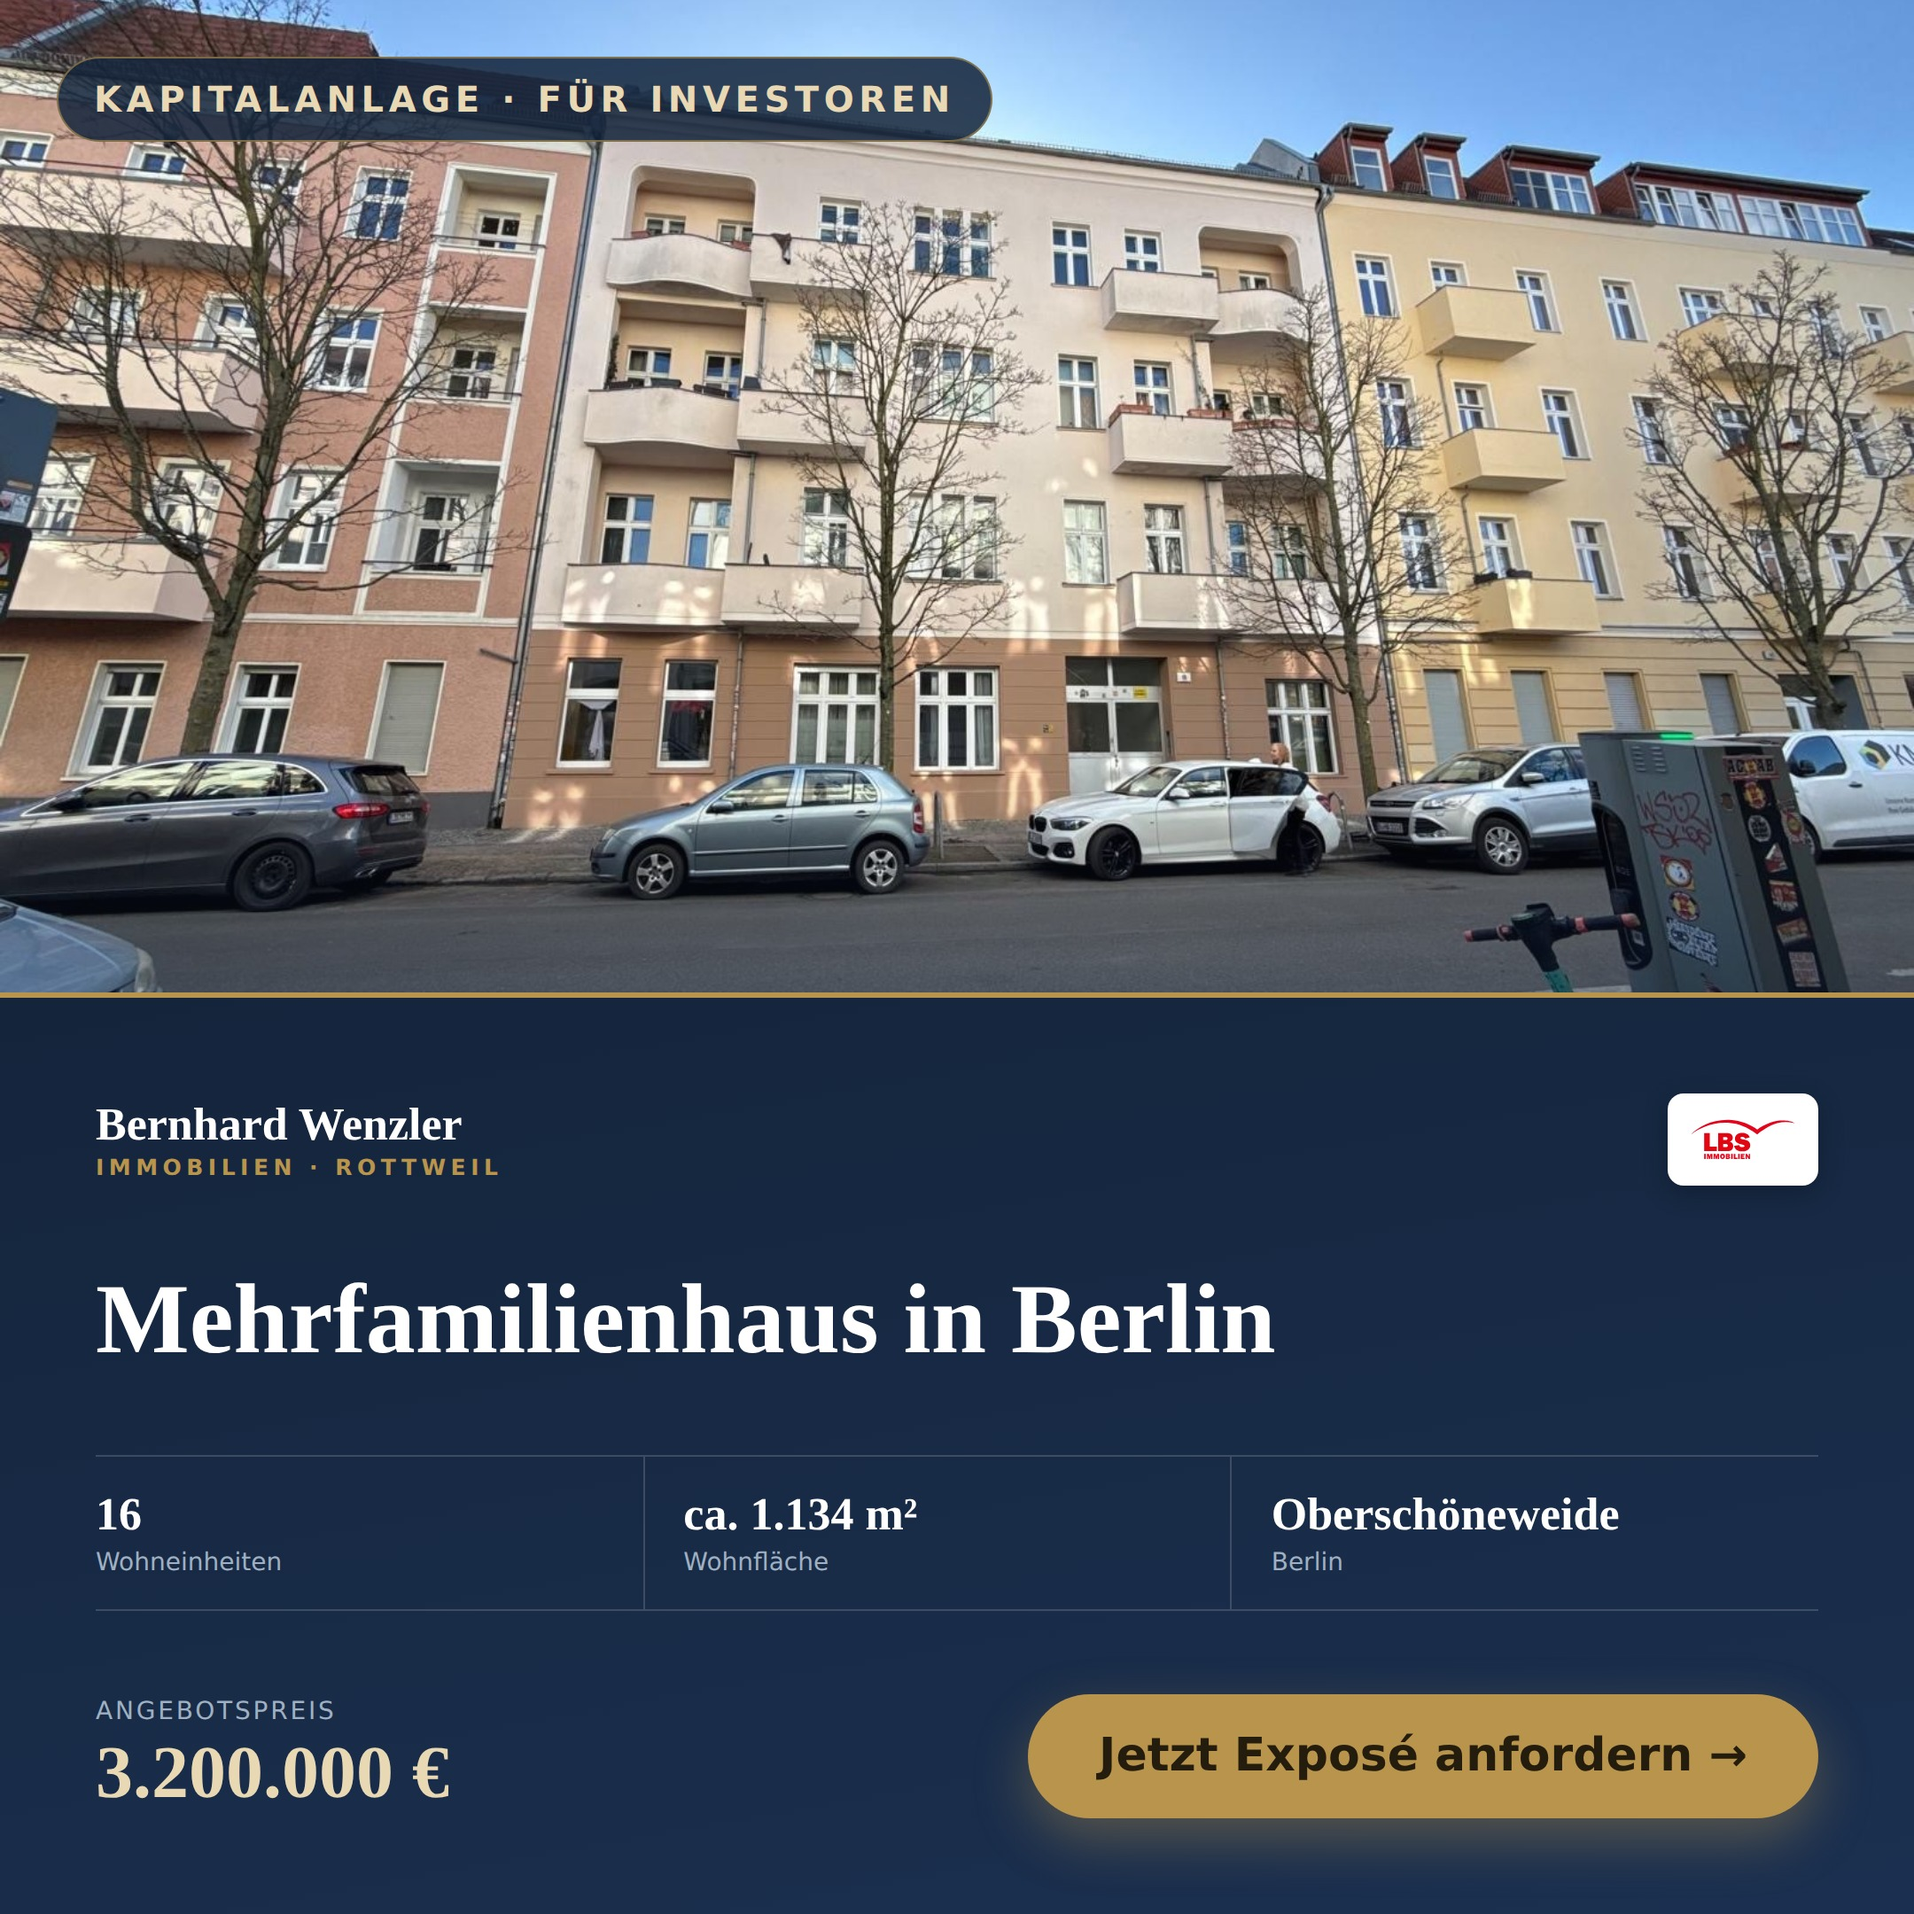
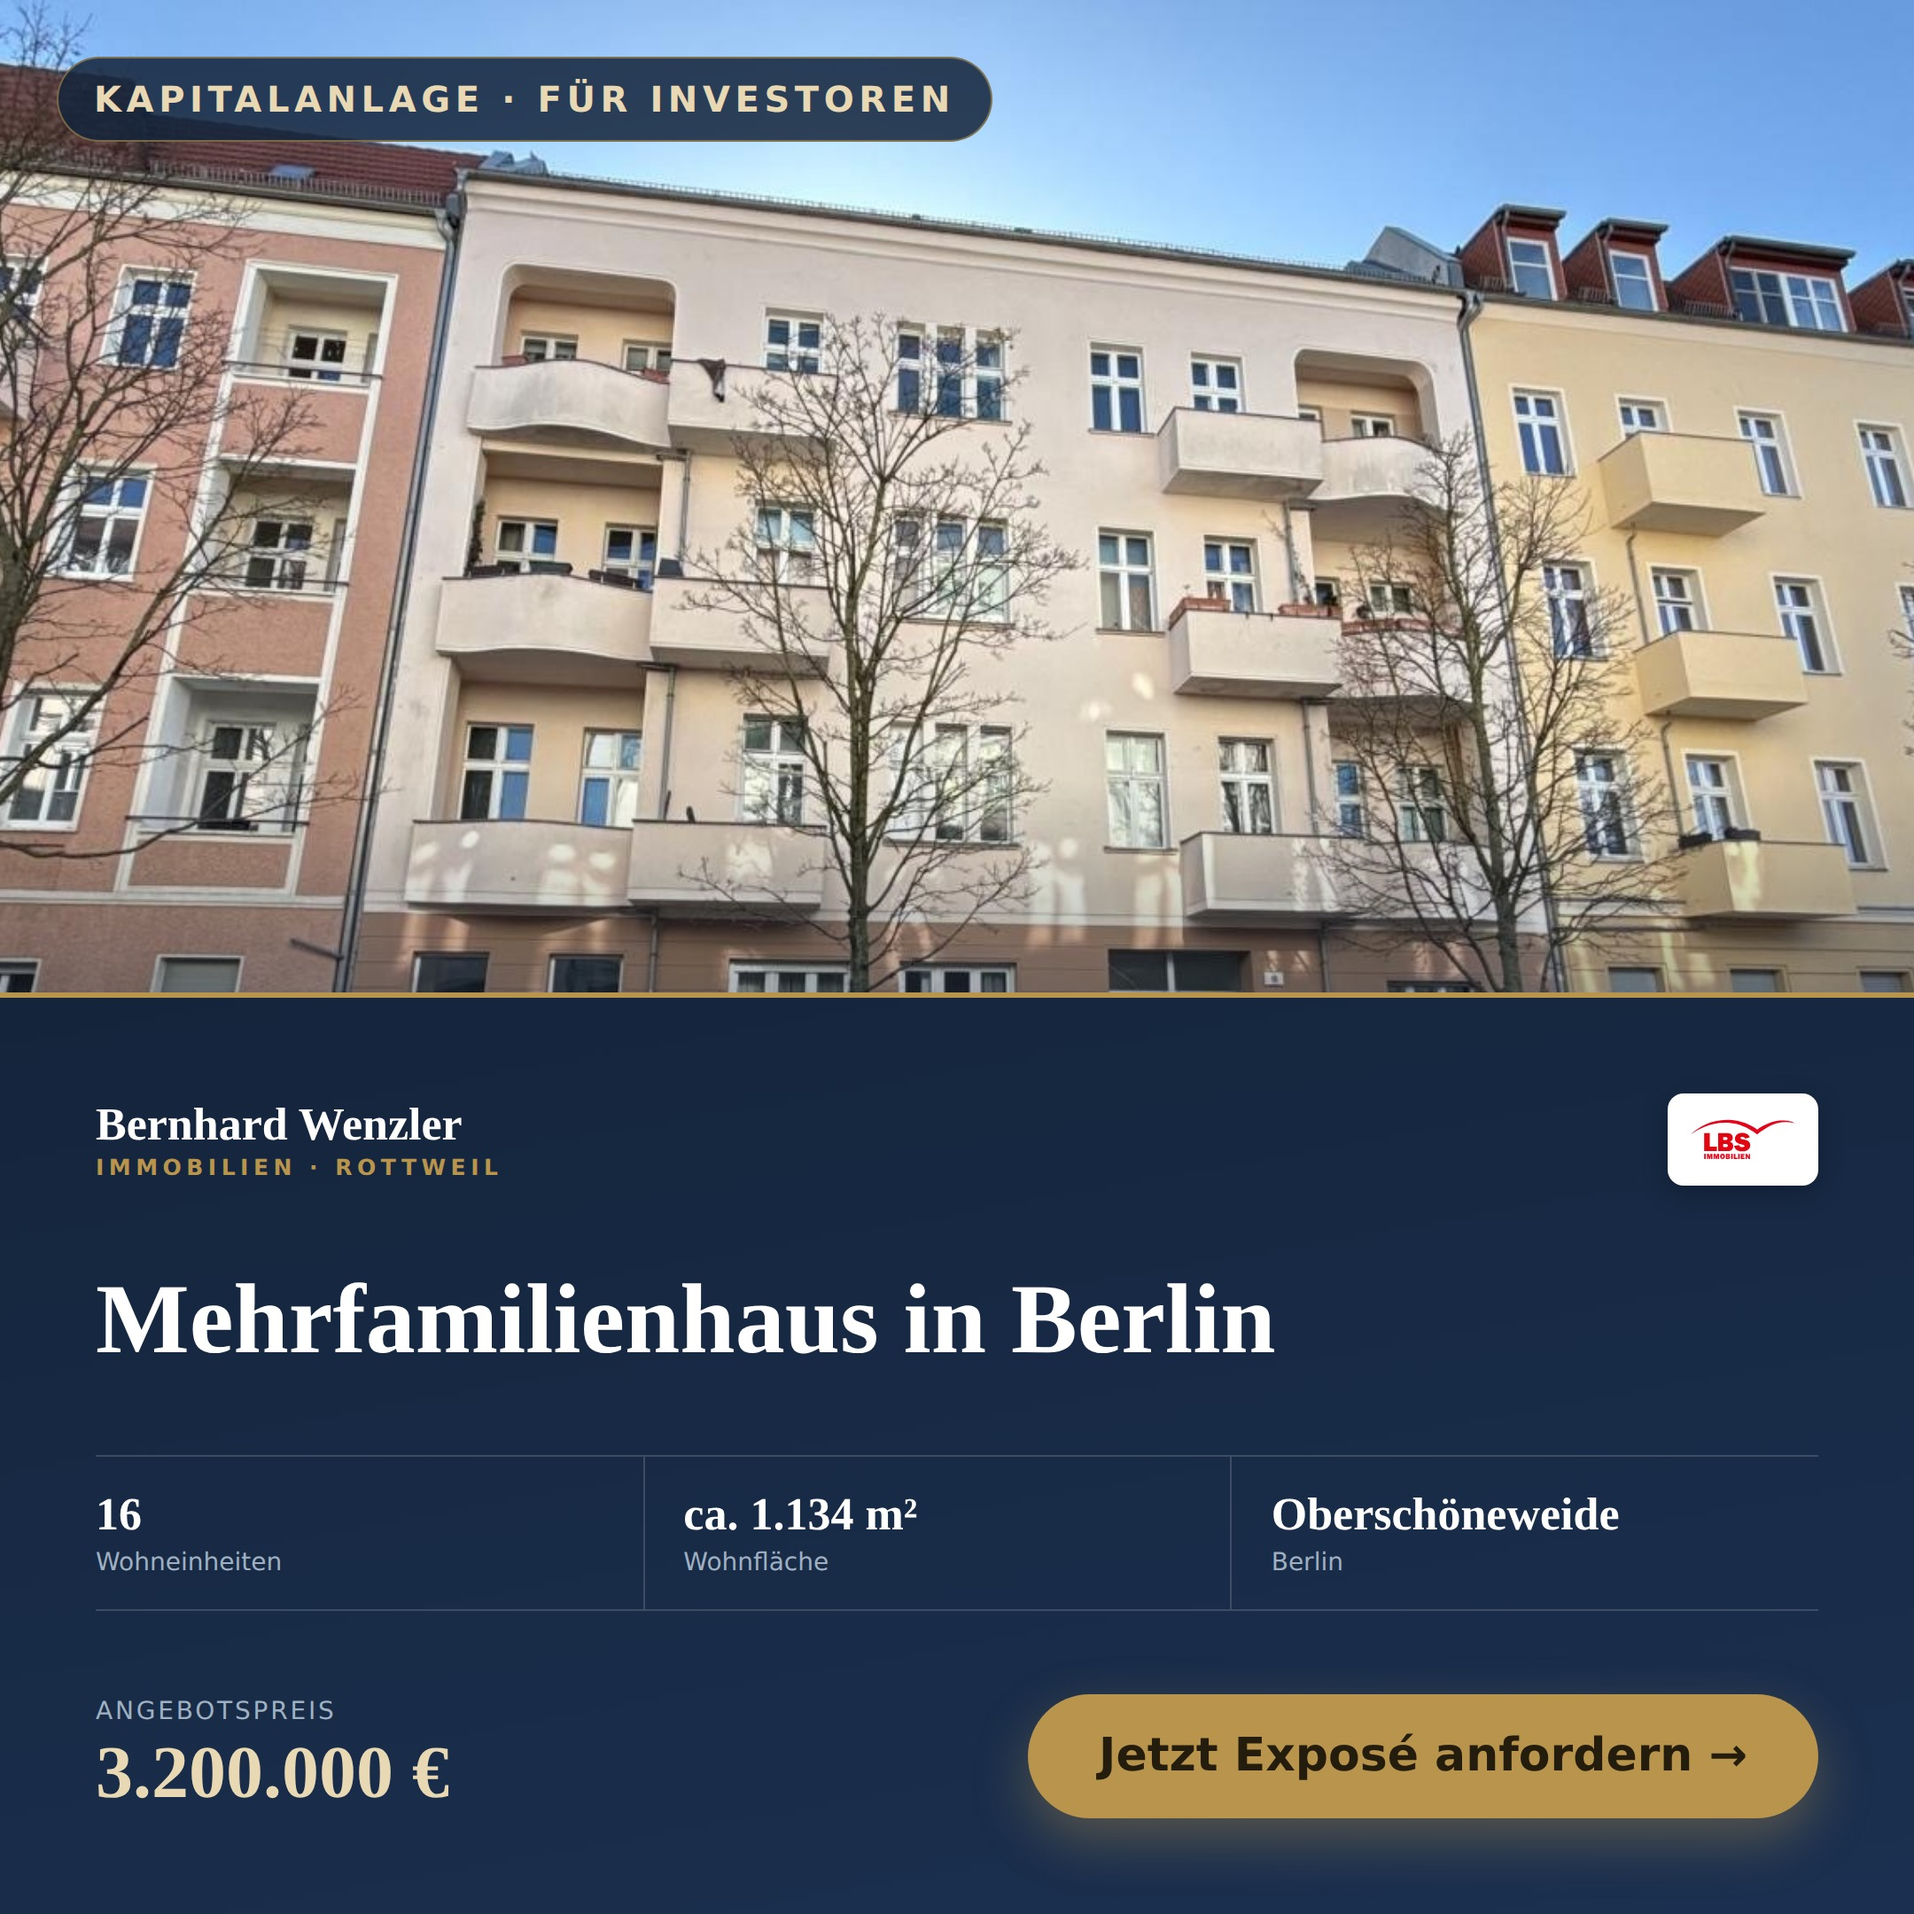
Offene Autotür entfernen: Fassaden-Foto sauber zugeschnitten
- Neuer Bildausschnitt assets/8-fassade.jpg (nur Fassade + Himmel,
  ohne Straßenzeile/Fahrzeuge)
- In allen Fassaden-Creatives (1:1, 4:5, Story, Link) eingesetzt
- Auch im Landingpage-Hero, in der Galerie und als og:/twitter:image

Claude-Session: https://claude.ai/code/session_01PbEVJQx6nGFjYtWW8cb22h

diff --git a/index.html b/index.html
@@ -14,16 +14,16 @@
   <meta property="og:title" content="Kapitalanlage Berlin – Mehrfamilienhaus für Investoren" />
   <meta property="og:description" content="Vermietetes Mehrfamilienhaus in Berlin-Oberschöneweide als Kapitalanlage für Investoren. Jetzt unverbindlich das Exposé anfordern." />
   <meta property="og:locale" content="de_DE" />
-  <meta property="og:image" content="assets/8.jpg" />
+  <meta property="og:image" content="assets/8-fassade.jpg" />
   <meta name="twitter:card" content="summary_large_image" />
   <meta name="twitter:title" content="Investmentchance Berlin – Mehrfamilienhaus" />
   <meta name="twitter:description" content="16 Wohneinheiten in Berlin-Oberschöneweide. Jetzt Exposé anfordern." />
-  <meta name="twitter:image" content="assets/8.jpg" />
+  <meta name="twitter:image" content="assets/8-fassade.jpg" />
   <!-- Hinweis: Für zuverlässige Meta/Facebook-Vorschau sollte og:image eine ABSOLUTE URL
        sein (z. B. https://DEINE-DOMAIN/assets/8.jpg), sobald die Domain feststeht. -->
 
   <link rel="icon" href="assets/favicon.svg" type="image/svg+xml" />
-  <link rel="preload" as="image" href="assets/8.jpg" />
+  <link rel="preload" as="image" href="assets/8-fassade.jpg" />
 
   <!-- Fonts -->
   <link rel="preconnect" href="https://fonts.googleapis.com" />
@@ -189,13 +189,13 @@
     <div class="container objekt-grid">
       <div class="objekt-media">
         <figure class="gallery">
-          <img id="gallery-main" src="assets/8.jpg" alt="Straßenansicht des Mehrfamilienhauses in Berlin-Oberschöneweide"
+          <img id="gallery-main" src="assets/8-fassade.jpg" alt="Straßenansicht des Mehrfamilienhauses in Berlin-Oberschöneweide"
                decoding="async" loading="lazy" />
           <figcaption id="gallery-caption">Straßenansicht</figcaption>
         </figure>
         <div class="gallery-thumbs" role="group" aria-label="Weitere Objektfotos">
-          <button type="button" class="thumb is-active" data-src="assets/8.jpg" data-caption="Straßenansicht" aria-label="Straßenansicht anzeigen">
-            <img src="assets/8.jpg" alt="Straßenansicht der Fassade" loading="lazy" decoding="async" />
+          <button type="button" class="thumb is-active" data-src="assets/8-fassade.jpg" data-caption="Straßenansicht" aria-label="Straßenansicht anzeigen">
+            <img src="assets/8-fassade.jpg" alt="Straßenansicht der Fassade" loading="lazy" decoding="async" />
           </button>
           <button type="button" class="thumb" data-src="assets/5.jpg" data-caption="Begrünter Innenhof" aria-label="Innenhof anzeigen">
             <img src="assets/5.jpg" alt="Begrünter Innenhof mit Garten" loading="lazy" decoding="async" />

diff --git a/creatives/creatives.src.html b/creatives/creatives.src.html
@@ -98,7 +98,7 @@
 
   <!-- ===== FEED 1:1 – FASSADE ===== -->
   <div class="ab r-1x1" id="fa-1x1">
-    <div class="photo" style="background-image:url('../assets/8.jpg')"><span class="pill">Kapitalanlage · für Investoren</span></div>
+    <div class="photo" style="background-image:url('../assets/8-fassade.jpg');background-position:center"><span class="pill">Kapitalanlage · für Investoren</span></div>
     <div class="panel">
       <div class="phead">
         <span class="brand"><b>Bernhard Wenzler</b><span>Immobilien · Rottweil</span></span>
@@ -140,7 +140,7 @@
 
   <!-- ===== FEED 4:5 – FASSADE (best performance) ===== -->
   <div class="ab r-4x5" id="fa-4x5">
-    <div class="photo" style="background-image:url('../assets/8.jpg')"><span class="pill">Kapitalanlage · für Investoren</span></div>
+    <div class="photo" style="background-image:url('../assets/8-fassade.jpg');background-position:center"><span class="pill">Kapitalanlage · für Investoren</span></div>
     <div class="panel">
       <div class="phead">
         <span class="brand"><b>Bernhard Wenzler</b><span>Immobilien · Rottweil</span></span>
@@ -161,7 +161,7 @@
 
   <!-- ===== STORY 9:16 ===== -->
   <div class="ab r-9x16" id="story">
-    <div class="photo" style="background-image:url('../assets/8.jpg')"><span class="pill">Kapitalanlage · für Investoren</span></div>
+    <div class="photo" style="background-image:url('../assets/8-fassade.jpg');background-position:center"><span class="pill">Kapitalanlage · für Investoren</span></div>
     <div class="panel">
       <div class="phead">
         <span class="brand"><b>Bernhard Wenzler</b><span>Immobilien · Rottweil</span></span>
@@ -182,7 +182,7 @@
 
   <!-- ===== LINK QUER 1200×628 ===== -->
   <div class="ab r-16x9" id="land">
-    <div class="photo" style="background-image:url('../assets/8.jpg')"><span class="pill">Kapitalanlage · Berlin</span></div>
+    <div class="photo" style="background-image:url('../assets/8-fassade.jpg');background-position:center"><span class="pill">Kapitalanlage · Berlin</span></div>
     <div class="panel">
       <div class="phead">
         <span class="brand"><b>Bernhard Wenzler</b><span>Immobilien · Rottweil</span></span>

diff --git a/styles.css b/styles.css
@@ -108,9 +108,9 @@ a { color: var(--gold-dark); }
   background:
     radial-gradient(1200px 500px at 85% -10%, rgba(184,148,77,.20), transparent 60%),
     linear-gradient(160deg, rgba(20,36,59,.94) 0%, rgba(27,48,80,.88) 50%, rgba(36,64,95,.84) 100%),
-    url("assets/8.jpg");
+    url("assets/8-fassade.jpg");
   background-size: cover;
-  background-position: center 30%;
+  background-position: center 40%;
   background-repeat: no-repeat;
   color: #eaf0f7;
   padding-block: 72px 84px;
